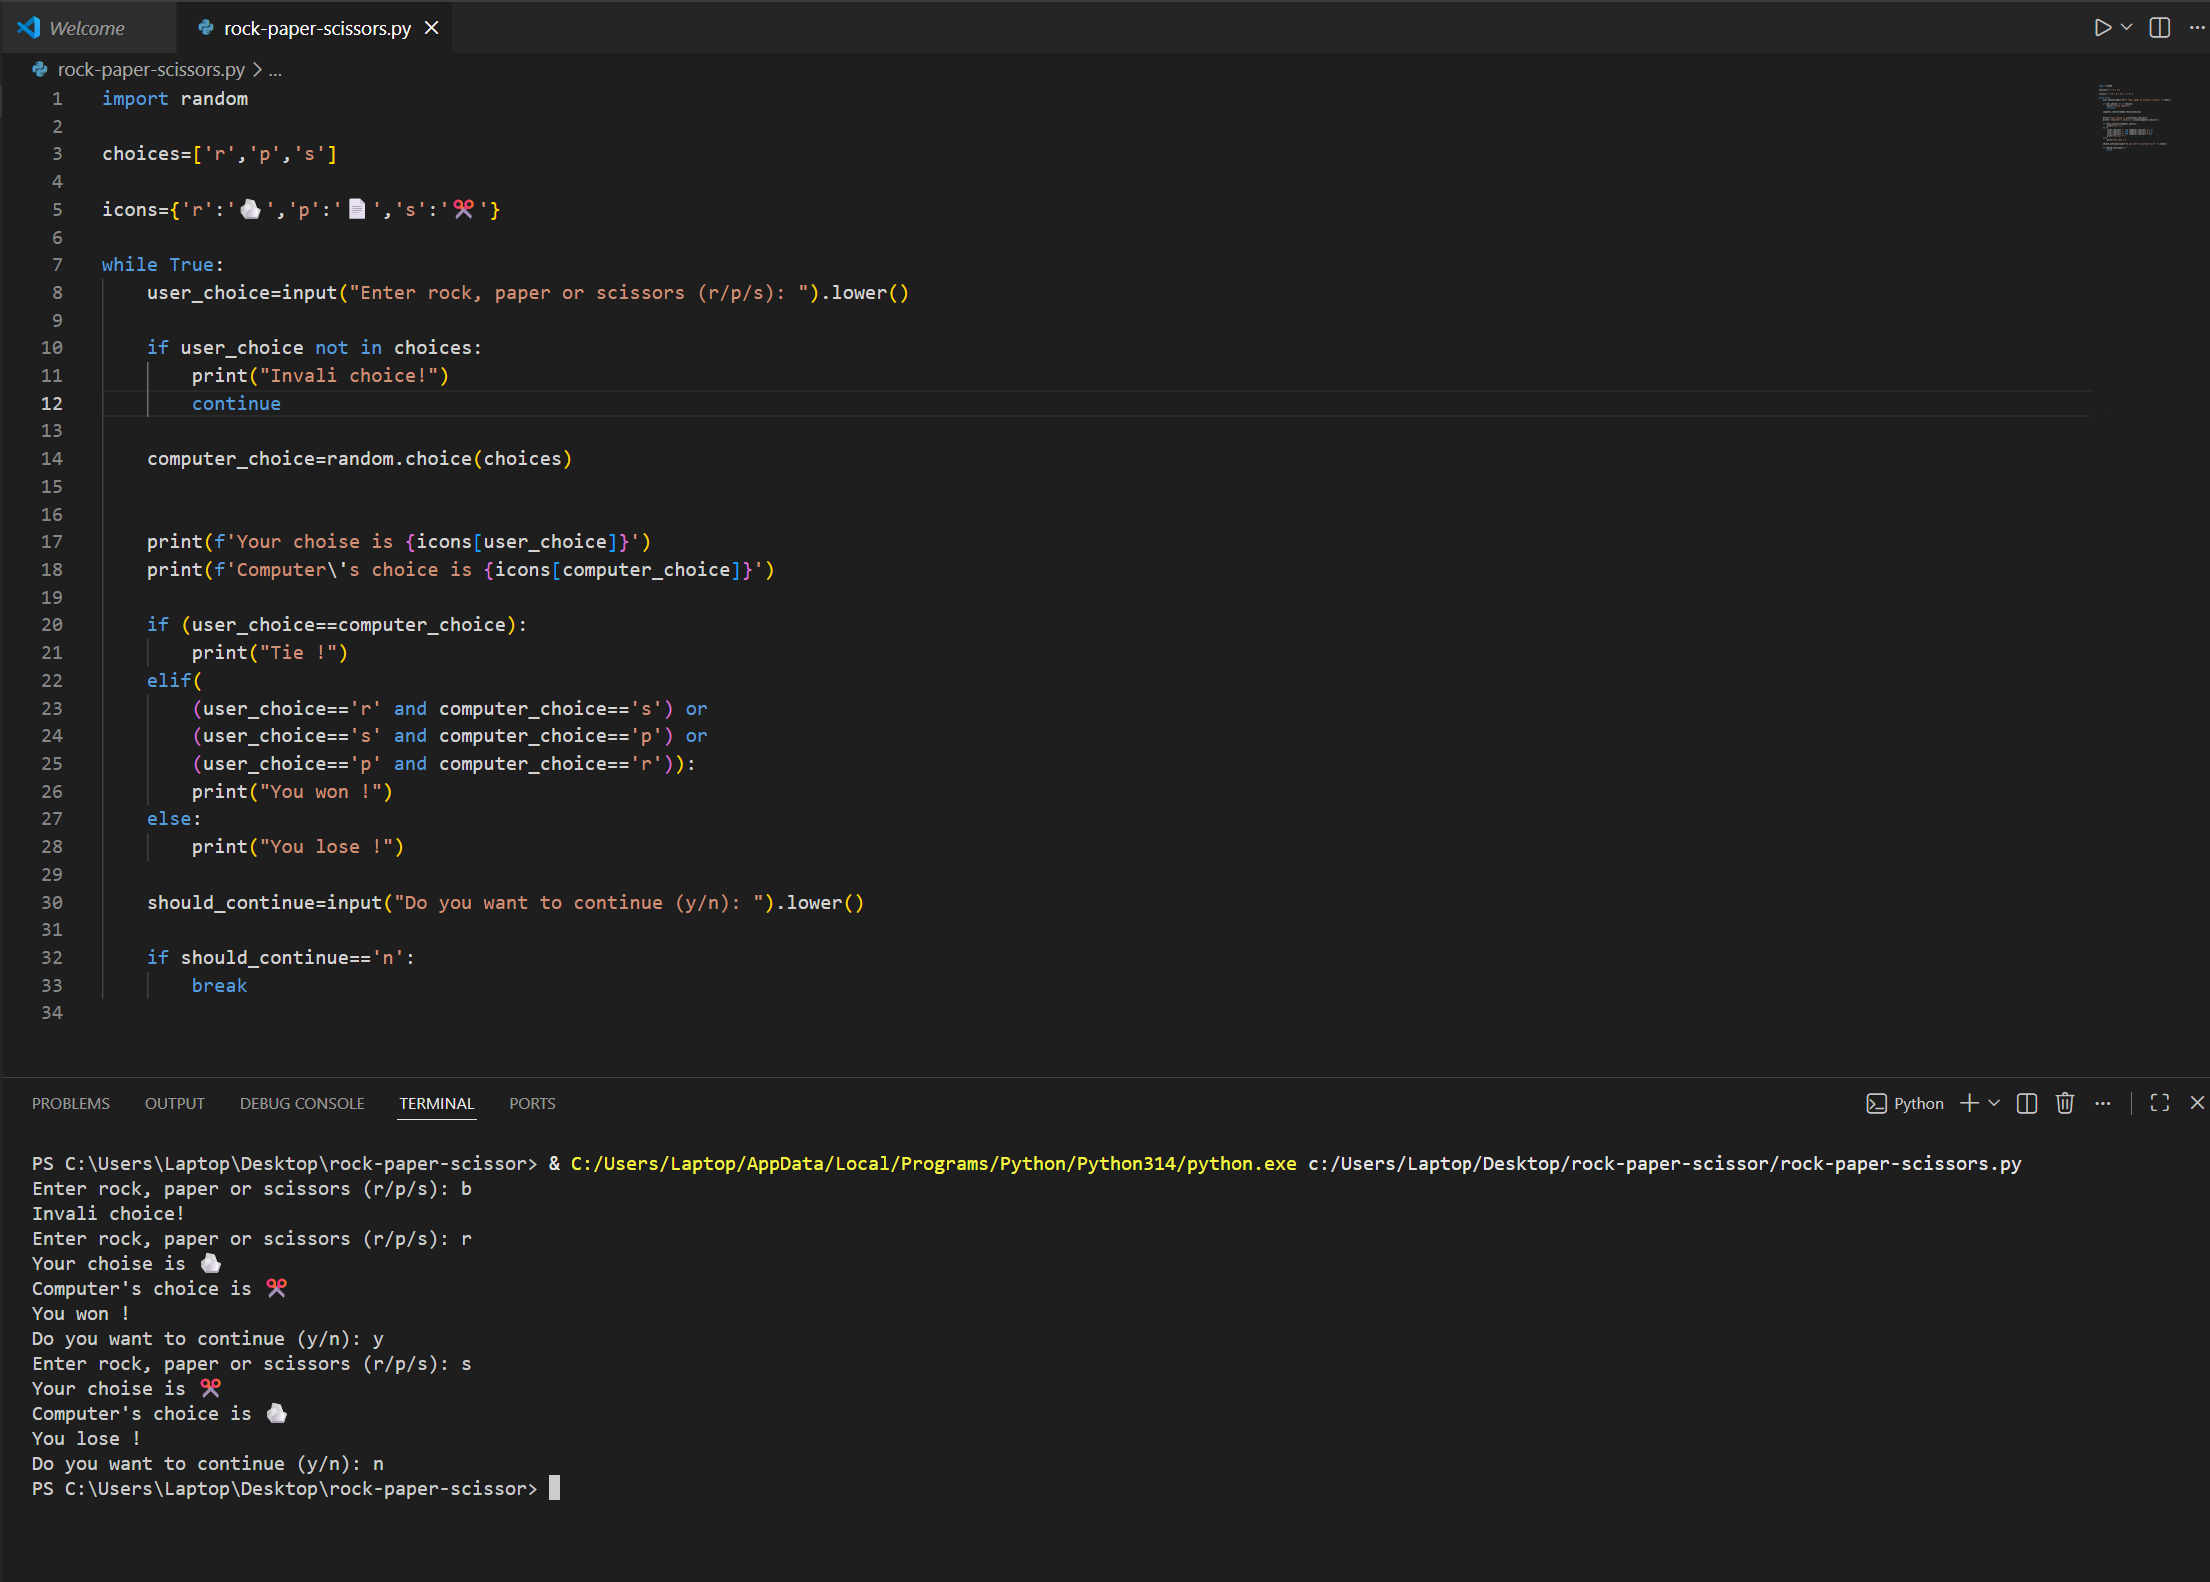
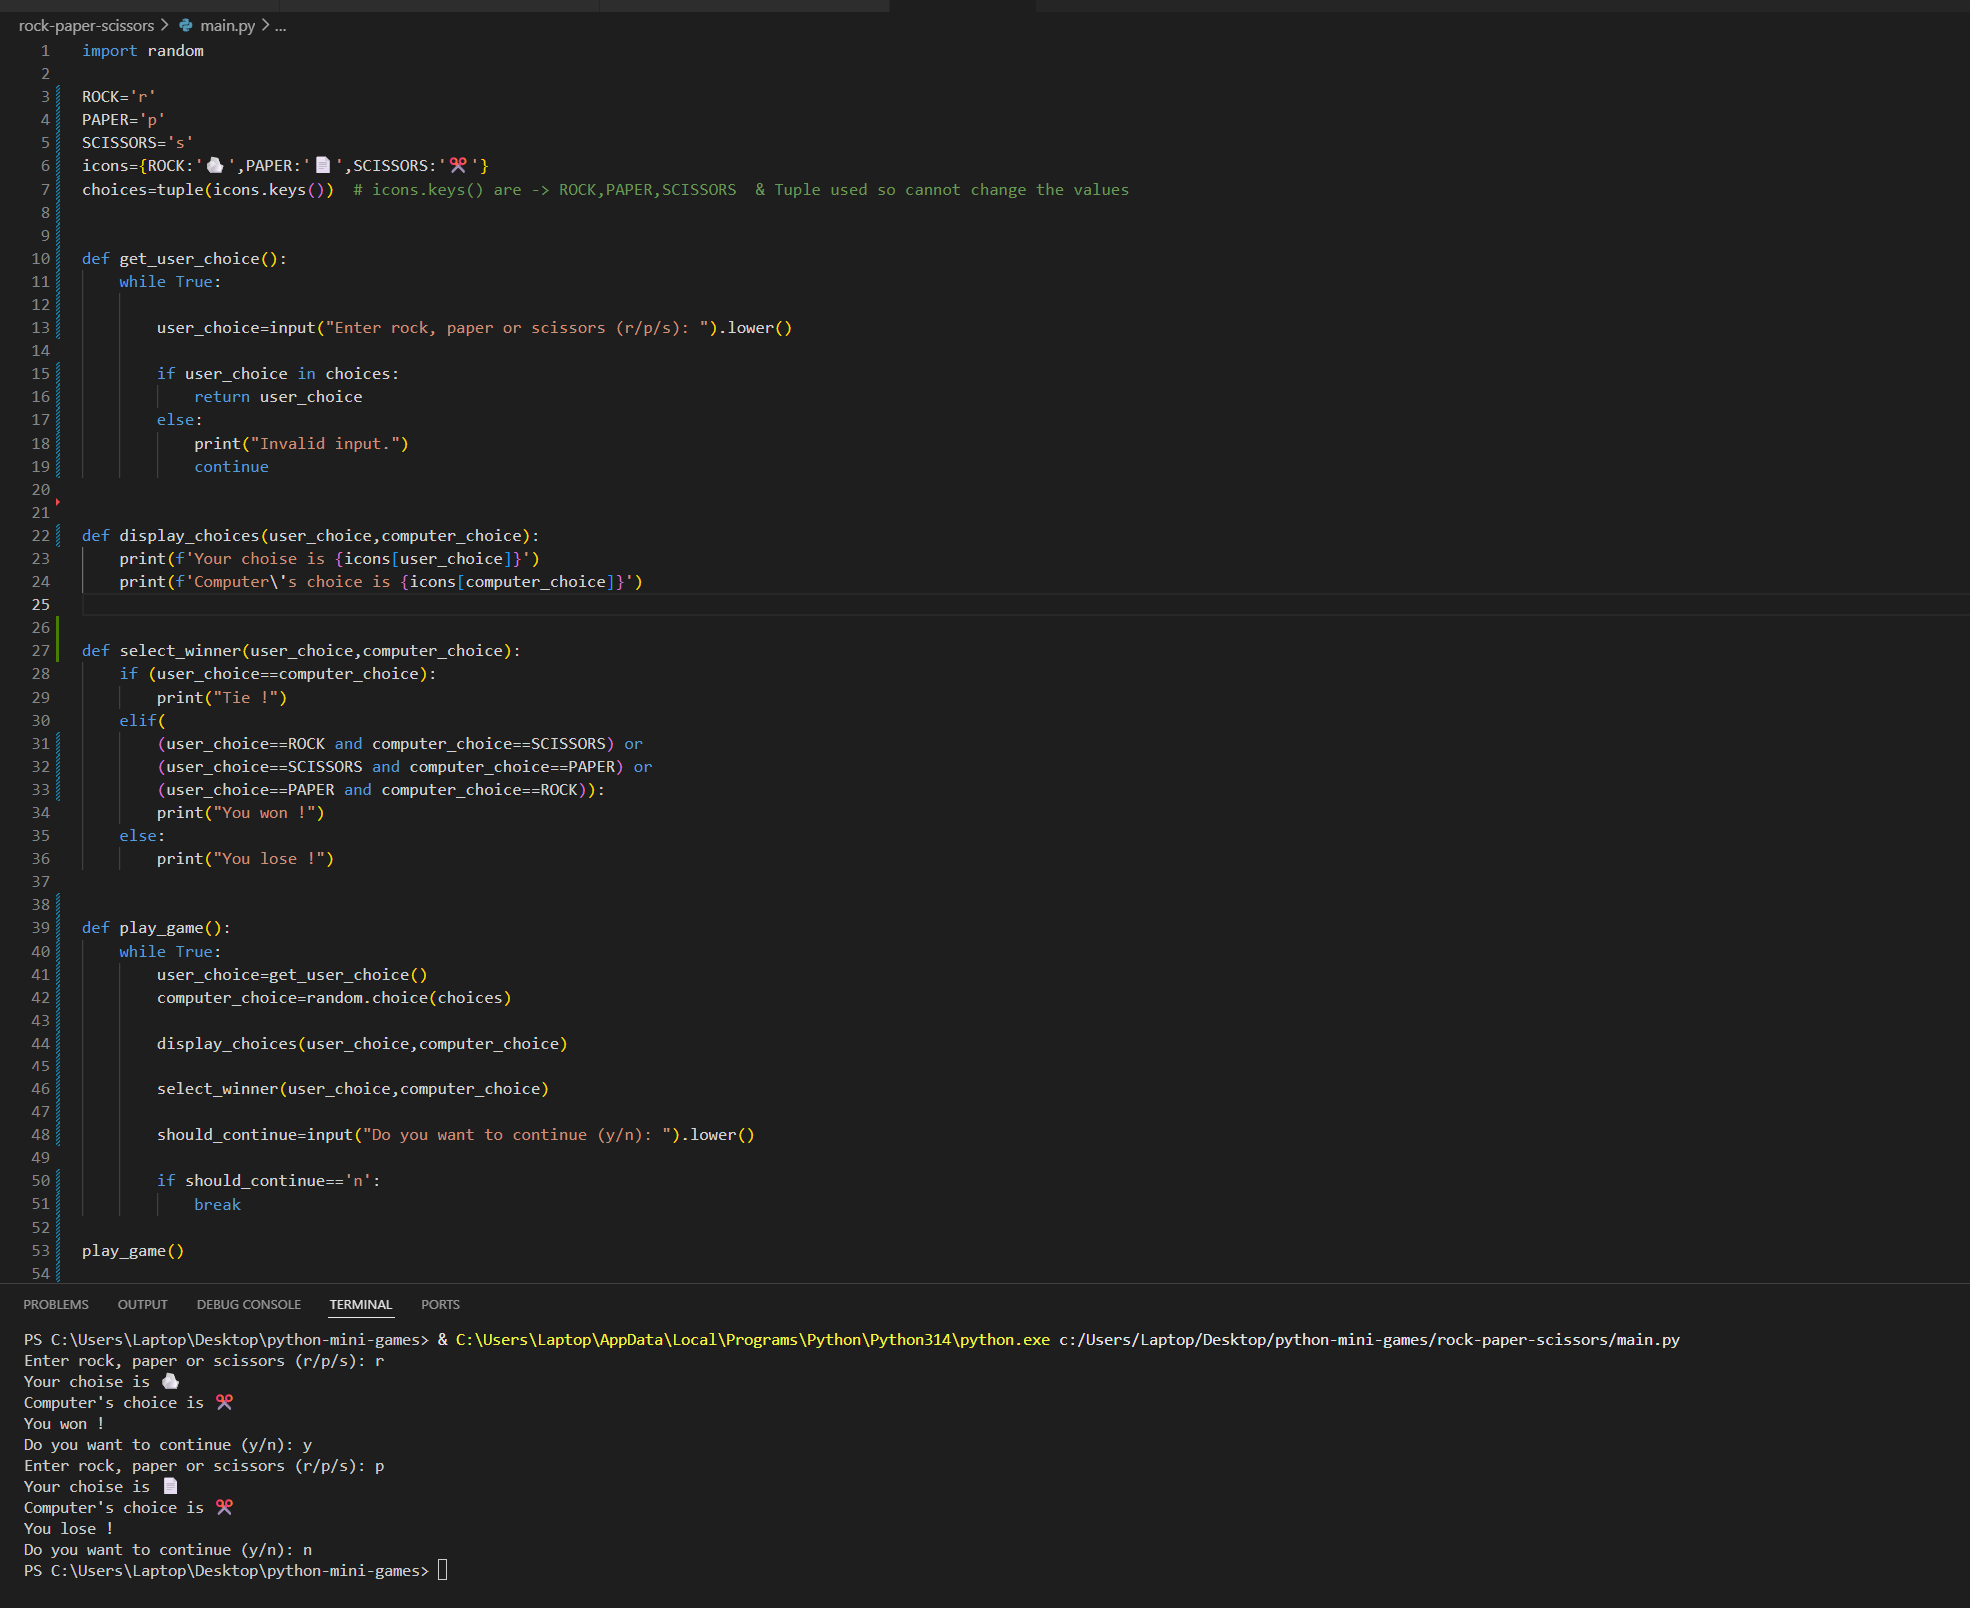
Add a new mini game called Madlibs

diff --git a/Madlibs/main.py b/Madlibs/main.py
@@ -1,0 +1,77 @@
+print("Choose a story you like little sunshine 🌻: ")
+
+print("1️⃣ - The Magical Unicorn 🦄")
+print("2️⃣ - The Dinosaur's Birthday Party 🦕")
+print("3️⃣ - The lost Space Puppy 🐶")
+
+story_numbers=tuple([1,2,3])
+
+    
+def chooseStory():
+    while True:
+        try:
+            storyNumber=int(input("Enter 1 or 2 or 3 : "))
+            if storyNumber not in story_numbers:
+                print("Invalid story number. Please enter 1, 2, 3 🌻")
+                continue
+            return storyNumber
+        except ValueError:
+            print("Please enter a number only ! 😊")
+
+
+
+def Magical_Unicorn():
+    
+    adjective=input("Enter an adjective : ")
+    colour=input("Enter a colour : ")
+    animal=input("Enter an animal : ")
+    place=input("Enter a place you like : ")
+    food=input("Enter a food : ")
+
+    madlib=f'\n💖 One sunny day, a {adjective} unicorn with a {colour} mane met a {animal} 😊. \nTogether they traveled to {place} to find the world\'s biggest {food} 🥭🍎. \nWhen they found it, they threw a giant party and everyone danced until sunset! 🌇'
+    return madlib
+    
+
+def Dinosaur_Birthday():
+    
+    dinosaur_name=input("Enter dinosaur name : ")
+    food=input("Enter a food : ")
+    adjective=input("Enter an adjective : ")
+    animal=input("Enter an animal you like : ")
+    verb=input("Enter a verb : ")
+
+    madlib=f'\nToday was {dinosaur_name}\'s birthday 🎂! \nFor the party, everyone ate {food}🍰. \nA very {adjective} {animal} arrived and started to {verb}. \nThe dinosaur laughed so hard that the birthday cake almost flew away! 😄'
+    return madlib
+    
+
+def space_Puppy():
+    puppy_name=input("Enter puppy name : ")
+    planet=input("Enter a planet : ")
+    adjective=input("Enter a feeling : ")
+    verb=input("Enter a verb : ")
+    item=input("Enter an object : ")
+
+    madlib=f'\n🐕 A space puppy named {puppy_name} got lost near {planet} 🪐. \nThe puppy was feeling very {adjective}. \nSuddenly, it began to {verb} and found a magical {item}. \nThe puppy used it to fly back home and became a space hero! 🐕🦺'
+    return madlib
+
+while True:
+
+    storyNumber=chooseStory()
+
+    if storyNumber==1:
+        print(Magical_Unicorn())
+    elif storyNumber==2:
+        print(Dinosaur_Birthday())
+    elif storyNumber==3:
+        print(space_Puppy())
+
+
+    print("\nWoooooooow 🎉!!! You did a nice job kiddo 💖💖")
+
+    play_again=input("\nDo you wanna play again sweetie 😊💖 (yes/no) : ").lower()
+    if play_again=="no":
+        print("\n👋 Thanks for playing! Have a magical day! 🌈")
+        break
+
+
+

diff --git a/rock-paper-scissors/main.py b/rock-paper-scissors/main.py
@@ -1,33 +1,65 @@
 import random
 
-choices=['r','p','s']
-
-icons={'r':'🪨','p':'📄','s':'✂️'}
-
-while True:
-    user_choice=input("Enter rock, paper or scissors (r/p/s): ").lower()
-
-    if user_choice not in choices:
-        print("Invali choice!")
-        continue
-
-    computer_choice=random.choice(choices)
+ROCK='r'
+PAPER='p'
+SCISSORS='s'
+icons={ROCK:'🪨',PAPER:'📄',SCISSORS:'✂️'}
+choices=tuple(icons.keys())  # icons.keys() are -> ROCK,PAPER,SCISSORS  & Tuple used so cannot change the values
 
 
+def get_user_choice():
+    while True:
+
+        user_choice=input("Enter rock, paper or scissors (r/p/s): ").lower()
+
+        if user_choice in choices:
+            return user_choice
+        else:
+            print("Invalid input.")
+            continue
+
+
+def display_choices(user_choice,computer_choice):
     print(f'Your choise is {icons[user_choice]}')
     print(f'Computer\'s choice is {icons[computer_choice]}')
 
+
+def select_winner(user_choice,computer_choice):
     if (user_choice==computer_choice):
         print("Tie !")
     elif(
-        (user_choice=='r' and computer_choice=='s') or 
-        (user_choice=='s' and computer_choice=='p') or 
-        (user_choice=='p' and computer_choice=='r')):
+        (user_choice==ROCK and computer_choice==SCISSORS) or 
+        (user_choice==SCISSORS and computer_choice==PAPER) or 
+        (user_choice==PAPER and computer_choice==ROCK)):
         print("You won !")
     else:
         print("You lose !")
 
-    should_continue=input("Do you want to continue (y/n): ").lower()
 
-    if should_continue=='n':
-        break
+def play_game():
+    while True:
+        user_choice=get_user_choice()
+        computer_choice=random.choice(choices)
+
+        display_choices(user_choice,computer_choice)
+
+        select_winner(user_choice,computer_choice)
+
+        should_continue=input("Do you want to continue (y/n): ").lower()
+
+        if should_continue=='n':
+            break
+        
+play_game()
+
+
+
+
+
+
+
+    
+
+    
+
+    

diff --git a/Madlibs/README.md b/Madlibs/README.md
@@ -1,0 +1,40 @@
+# 🦄 Mad Libs Story Generator
+
+A fun Python Mad Libs game where kids can choose from three different stories and create their own adventures by entering words!
+
+## 🌟 Features
+- 🦄 The Magical Unicorn
+- 🦕 The Dinosaur's Birthday Party
+- 🐶 The Lost Space Puppy
+- Input validation to ensure a valid story choice
+- Interactive user experience
+- Beginner-friendly Python project
+
+## 🛠️ Built With
+- Python 3
+- Functions
+- Loops
+- Conditional Statements (if, elif, else)
+- String Formatting (f-strings)
+
+## 🎮 Example
+Choose a story you like little sunshine 🌻
+
+1️⃣ - The Magical Unicorn 🦄
+2️⃣ - The Dinosaur's Birthday Party 🦕
+3️⃣ - The Lost Space Puppy 🐶
+
+Enter 1️⃣ or 2️⃣ or 3️⃣ : 1
+
+
+## 📚 What I Learned
+- Working with user input
+- Creating and calling functions
+- Using loops for input validation
+- Writing interactive console applications
+- Organizing Python code into reusable components
+
+![code](code.png)
+
+## Author
+D.B.Sehansa Dewlini